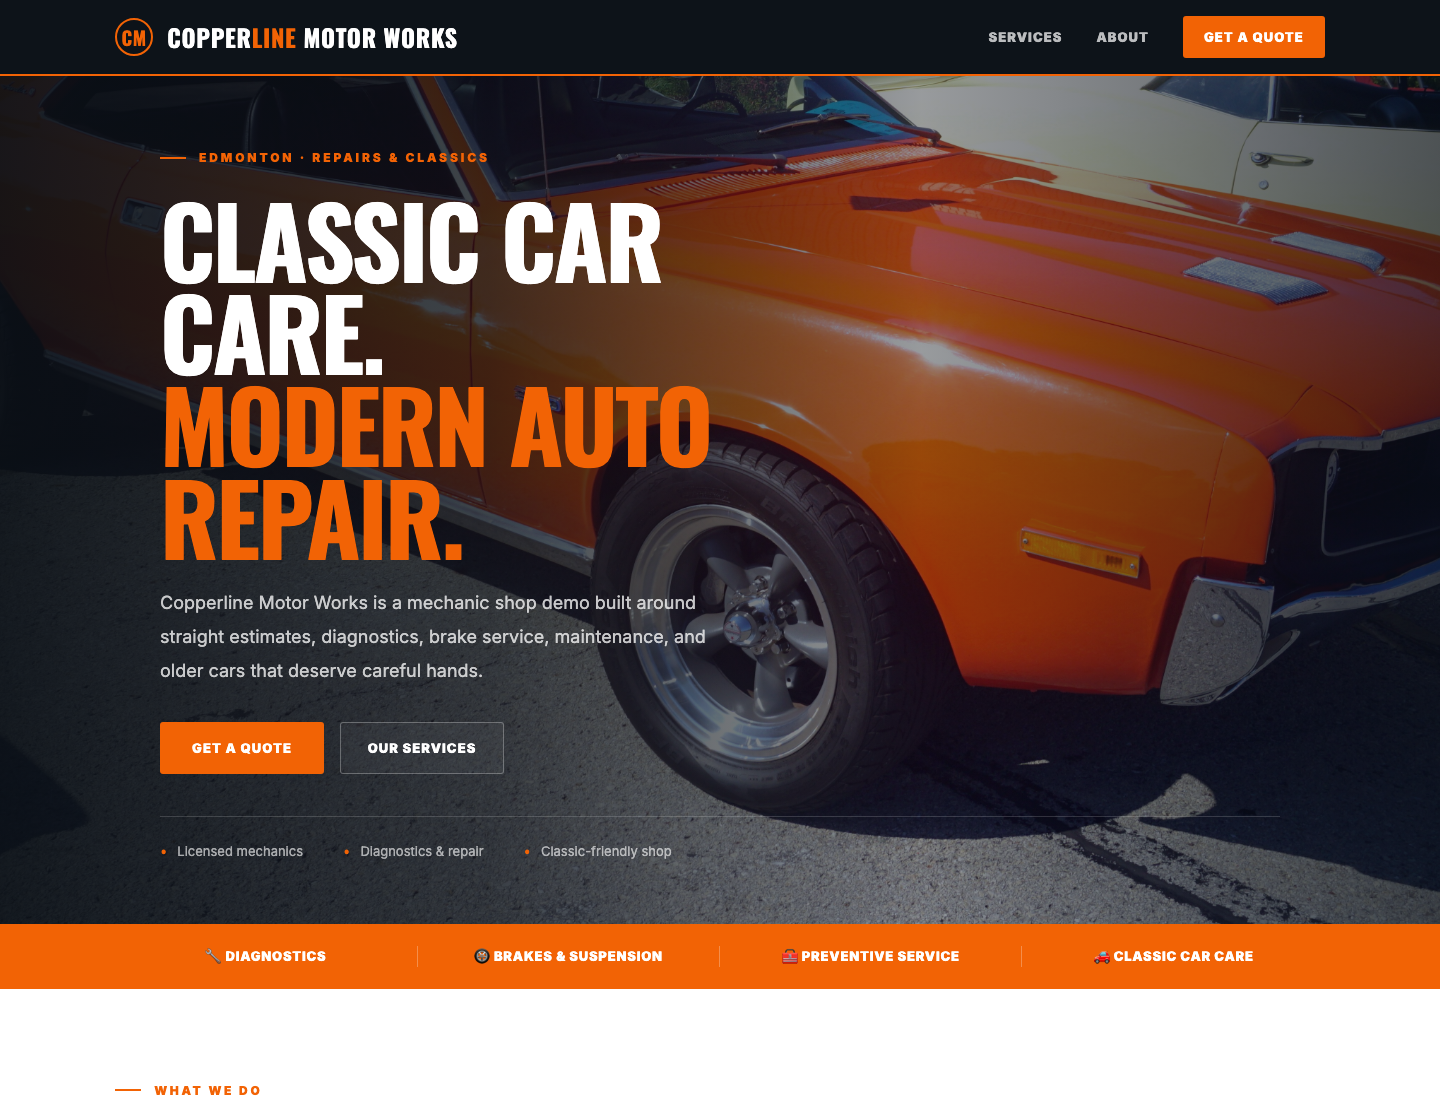
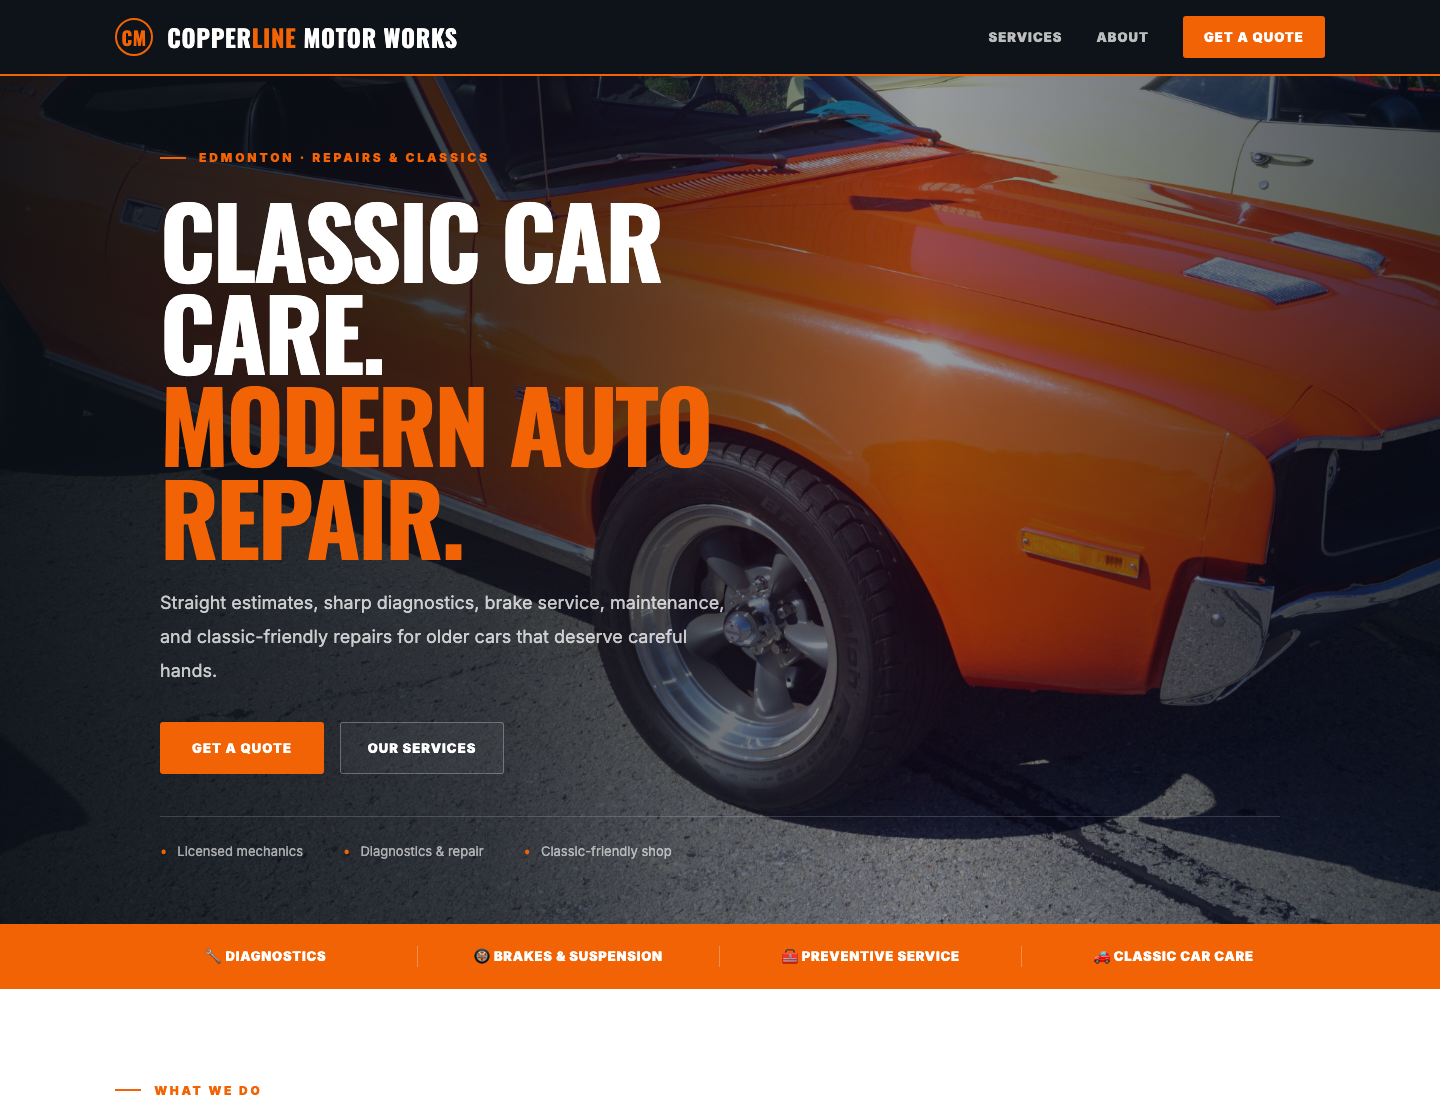
Polish Copperline screenshot quality

Changed region(s): [[0.125, 0.5255, 0.5, 0.6182]]

diff --git a/demo-starter-site.html b/demo-starter-site.html
@@ -8,7 +8,7 @@
 <link rel="preconnect" href="https://fonts.gstatic.com" crossorigin>
 <link href="https://fonts.googleapis.com/css2?family=Inter:wght@400;500;600;700;800;900&family=Oswald:wght@600;700&display=swap" rel="stylesheet">
 <style>
-:root{--dark:#0b1116;--nav:#0d1319;--orange:#f26305;--white:#fff;--paper:#f4f6f9;--ink:#101820;--muted:#5f6e83;--line:#dbe2ea}*{box-sizing:border-box;margin:0;padding:0}body{font-family:Inter,system-ui,-apple-system,sans-serif;background:#fff;color:var(--ink);line-height:1.6}.page{overflow:hidden}.nav{height:76px;background:var(--nav);border-bottom:2px solid var(--orange);display:flex;align-items:center;justify-content:space-between;padding:0 max(26px,8vw);position:relative;z-index:5}.brand{display:flex;align-items:center;gap:14px;color:#fff;text-decoration:none;font-weight:900;letter-spacing:.04em}.mark{width:38px;height:38px;border-radius:50%;border:2px solid var(--orange);display:grid;place-items:center;color:var(--orange);font-family:Oswald,sans-serif;font-size:19px}.brand strong{font-family:Oswald,sans-serif;font-size:24px;line-height:1;letter-spacing:.03em}.brand span{color:var(--orange)}.links{display:flex;align-items:center;gap:34px}.links a{color:rgba(255,255,255,.72);text-decoration:none;font-weight:900;font-size:13px;letter-spacing:.08em}.quote{height:42px;border-radius:3px;background:var(--orange);color:#fff!important;display:flex;align-items:center;padding:0 21px}.hero{min-height:690px;position:relative;background:#111;display:flex;align-items:center}.hero-bg{position:absolute;inset:0}.hero-bg img{width:100%;height:100%;object-fit:cover;object-position:center;display:block}.hero-bg::after{content:'';position:absolute;inset:0;background:linear-gradient(90deg,rgba(10,16,22,.94) 0%,rgba(10,16,22,.78) 34%,rgba(10,16,22,.42) 64%,rgba(10,16,22,.72) 100%)}.hero-inner{position:relative;z-index:1;width:min(1120px,calc(100% - 44px));margin:auto;padding:72px 0 62px}.eyebrow{display:flex;align-items:center;gap:13px;color:var(--orange);font-size:12px;font-weight:900;letter-spacing:.24em;text-transform:uppercase;margin-bottom:26px}.eyebrow::before{content:'';width:26px;height:2px;background:var(--orange)}h1{font-family:Oswald,Impact,sans-serif;font-weight:700;text-transform:uppercase;font-size:clamp(58px,8vw,98px);line-height:.94;letter-spacing:-.025em;color:#fff;max-width:730px}.accent{display:block;color:var(--orange)}.lead{max-width:570px;color:rgba(255,255,255,.76);font-size:18px;line-height:1.9;margin-top:24px}.actions{display:flex;gap:16px;margin-top:34px}.btn{height:52px;min-width:164px;border-radius:3px;display:inline-flex;align-items:center;justify-content:center;text-decoration:none;font-weight:900;font-size:13px;letter-spacing:.08em}.btn.primary{background:var(--orange);color:#fff}.btn.secondary{background:rgba(255,255,255,.04);color:#fff;border:1px solid rgba(255,255,255,.28)}.trust-line{margin-top:42px;padding-top:24px;border-top:1px solid rgba(255,255,255,.16);display:flex;gap:40px;color:rgba(255,255,255,.62);font-size:13px}.trust-line span::before{content:'•';color:var(--orange);margin-right:10px}.orange-strip{background:var(--orange);color:#fff;display:grid;grid-template-columns:repeat(4,1fr);gap:0;justify-items:center;padding:22px max(18px,8vw);font-weight:900;font-size:13px;letter-spacing:.06em;text-transform:uppercase}.orange-strip div{width:100%;text-align:center;border-right:1px solid rgba(255,255,255,.28)}.orange-strip div:last-child{border-right:0}.section{padding:92px max(24px,8vw);background:#fff}.section-head{max-width:690px;margin-bottom:44px}.kicker{display:flex;align-items:center;gap:13px;color:var(--orange);font-size:12px;font-weight:900;letter-spacing:.22em;text-transform:uppercase;margin-bottom:18px}.kicker::before{content:'';width:26px;height:2px;background:var(--orange)}h2{font-family:Oswald,Impact,sans-serif;font-size:52px;line-height:1;text-transform:uppercase;letter-spacing:-.02em;color:#111923}.section-head p{margin-top:14px;color:#61728a;font-size:17px}.cards{display:grid;grid-template-columns:repeat(3,1fr);gap:24px}.card{min-height:226px;background:#fff;border:1px solid var(--line);border-top:4px solid var(--orange);padding:30px;box-shadow:0 16px 40px rgba(14,31,48,.04)}.icon{font-size:31px;margin-bottom:18px}.card h3{font-family:Oswald,sans-serif;text-transform:uppercase;font-size:21px;letter-spacing:-.01em;margin-bottom:8px}.card p{color:#61728a;font-size:15px}.about{display:grid;grid-template-columns:1fr 1fr;background:#151d29;color:#fff}.about-photo{min-height:520px;position:relative;overflow:hidden}.about-photo img{width:100%;height:100%;object-fit:cover;object-position:center;filter:saturate(1.04) contrast(1.05)}.about-photo::after{content:'';position:absolute;inset:0;background:rgba(9,15,22,.25)}.about-copy{padding:82px max(24px,8vw) 78px 68px;display:flex;flex-direction:column;justify-content:center}.about-copy h2{color:#fff}.about-copy p{color:rgba(255,255,255,.68);max-width:560px;margin-top:22px;line-height:1.85}.bullets{margin-top:26px;color:rgba(255,255,255,.72);display:grid;gap:10px;font-size:15px}.bullets div::before{content:'•';color:var(--orange);margin-right:12px}.request{background:#0b1116;color:#fff;padding:90px max(24px,8vw);border-bottom:2px solid var(--orange)}.request h2{color:#fff}.request-grid{display:grid;grid-template-columns:.85fr 1.15fr;gap:72px;max-width:1120px;margin:auto}.contact-list{display:grid;gap:22px;margin-top:32px}.contact{display:flex;gap:16px;align-items:center}.contact .box{width:42px;height:42px;border:1px solid rgba(242,99,5,.55);background:rgba(242,99,5,.08);display:grid;place-items:center;border-radius:3px}.contact small{display:block;color:var(--orange);font-weight:900;letter-spacing:.12em;font-size:11px}.contact span{color:rgba(255,255,255,.72)}.form{display:grid;gap:15px}.row{display:grid;grid-template-columns:1fr 1fr;gap:15px}.field label{display:block;color:rgba(255,255,255,.45);font-size:11px;letter-spacing:.16em;margin-bottom:7px}.field input,.field textarea,.field select{width:100%;background:#171e25;border:1px solid #343d47;color:#fff;height:52px;padding:0 16px;font:inherit}.field textarea{height:126px;padding-top:14px}.submit{height:56px;border:0;background:var(--orange);color:#fff;font-weight:900;letter-spacing:.08em}.footer{height:78px;background:#080d12;color:rgba(255,255,255,.35);display:flex;align-items:center;justify-content:space-between;padding:0 max(24px,8vw);font-size:13px}.footer strong{font-family:Oswald,sans-serif;color:#fff;font-size:19px}.footer strong span{color:var(--orange)}.credit{font-size:10px;color:rgba(255,255,255,.25)}@media(max-width:800px){.nav{height:68px;padding:0 18px}.links a:not(.quote){display:none}.quote{height:38px;padding:0 14px}.brand strong{font-size:19px}.hero{min-height:650px}.hero-inner{padding-top:46px}.lead{font-size:16px;line-height:1.7}.actions{display:grid;grid-template-columns:1fr;max-width:240px}.trust-line{display:grid;gap:10px}.orange-strip{grid-template-columns:1fr 1fr;gap:18px}.orange-strip div{border:0}.cards{grid-template-columns:1fr}.about{grid-template-columns:1fr}.about-photo{min-height:300px}.about-copy{padding:56px 24px}.request-grid{grid-template-columns:1fr;gap:38px}.row{grid-template-columns:1fr}.footer{display:grid;gap:4px;height:auto;padding-top:24px;padding-bottom:24px}h2{font-size:40px}h1{font-size:52px}.hero-bg img{object-position:58% center}}
+:root{--dark:#0b1116;--nav:#0d1319;--orange:#f26305;--white:#fff;--paper:#f4f6f9;--ink:#101820;--muted:#5f6e83;--line:#dbe2ea}*{box-sizing:border-box;margin:0;padding:0}body{font-family:Inter,system-ui,-apple-system,sans-serif;background:#fff;color:var(--ink);line-height:1.6}.page{overflow:hidden}.nav{height:76px;background:var(--nav);border-bottom:2px solid var(--orange);display:flex;align-items:center;justify-content:space-between;padding:0 max(26px,8vw);position:relative;z-index:5}.brand{display:flex;align-items:center;gap:14px;color:#fff;text-decoration:none;font-weight:900;letter-spacing:.04em}.mark{width:38px;height:38px;border-radius:50%;border:2px solid var(--orange);display:grid;place-items:center;color:var(--orange);font-family:Oswald,sans-serif;font-size:19px}.brand strong{font-family:Oswald,sans-serif;font-size:24px;line-height:1;letter-spacing:.03em}.brand span{color:var(--orange)}.links{display:flex;align-items:center;gap:34px}.links a{color:rgba(255,255,255,.72);text-decoration:none;font-weight:900;font-size:13px;letter-spacing:.08em}.quote{height:42px;border-radius:3px;background:var(--orange);color:#fff!important;display:flex;align-items:center;padding:0 21px}.hero{min-height:690px;position:relative;background:#111;display:flex;align-items:center}.hero-bg{position:absolute;inset:0}.hero-bg img{width:100%;height:100%;object-fit:cover;object-position:center;display:block}.hero-bg::after{content:'';position:absolute;inset:0;background:linear-gradient(90deg,rgba(10,16,22,.94) 0%,rgba(10,16,22,.78) 34%,rgba(10,16,22,.42) 64%,rgba(10,16,22,.72) 100%)}.hero-inner{position:relative;z-index:1;width:min(1120px,calc(100% - 44px));margin:auto;padding:72px 0 62px}.eyebrow{display:flex;align-items:center;gap:13px;color:var(--orange);font-size:12px;font-weight:900;letter-spacing:.24em;text-transform:uppercase;margin-bottom:26px}.eyebrow::before{content:'';width:26px;height:2px;background:var(--orange)}h1{font-family:Oswald,Impact,sans-serif;font-weight:700;text-transform:uppercase;font-size:clamp(58px,8vw,98px);line-height:.94;letter-spacing:-.025em;color:#fff;max-width:730px}.accent{display:block;color:var(--orange)}.lead{max-width:570px;color:rgba(255,255,255,.76);font-size:18px;line-height:1.9;margin-top:24px}.actions{display:flex;gap:16px;margin-top:34px}.btn{height:52px;min-width:164px;border-radius:3px;display:inline-flex;align-items:center;justify-content:center;text-decoration:none;font-weight:900;font-size:13px;letter-spacing:.08em}.btn.primary{background:var(--orange);color:#fff}.btn.secondary{background:rgba(255,255,255,.04);color:#fff;border:1px solid rgba(255,255,255,.28)}.trust-line{margin-top:42px;padding-top:24px;border-top:1px solid rgba(255,255,255,.16);display:flex;gap:40px;color:rgba(255,255,255,.62);font-size:13px}.trust-line span::before{content:'•';color:var(--orange);margin-right:10px}.orange-strip{background:var(--orange);color:#fff;display:grid;grid-template-columns:repeat(4,1fr);gap:0;justify-items:center;padding:22px max(18px,8vw);font-weight:900;font-size:13px;letter-spacing:.06em;text-transform:uppercase}.orange-strip div{width:100%;text-align:center;border-right:1px solid rgba(255,255,255,.28)}.orange-strip div:last-child{border-right:0}.section{padding:92px max(24px,8vw);background:#fff}.section-head{max-width:690px;margin-bottom:44px}.kicker{display:flex;align-items:center;gap:13px;color:var(--orange);font-size:12px;font-weight:900;letter-spacing:.22em;text-transform:uppercase;margin-bottom:18px}.kicker::before{content:'';width:26px;height:2px;background:var(--orange)}h2{font-family:Oswald,Impact,sans-serif;font-size:52px;line-height:1;text-transform:uppercase;letter-spacing:-.02em;color:#111923}.section-head p{margin-top:14px;color:#61728a;font-size:17px}.cards{display:grid;grid-template-columns:repeat(3,1fr);gap:24px}.card{min-height:226px;background:#fff;border:1px solid var(--line);border-top:4px solid var(--orange);padding:30px;box-shadow:0 16px 40px rgba(14,31,48,.04)}.icon{font-size:31px;margin-bottom:18px}.card h3{font-family:Oswald,sans-serif;text-transform:uppercase;font-size:21px;letter-spacing:-.01em;margin-bottom:8px}.card p{color:#61728a;font-size:15px}.about{display:grid;grid-template-columns:1fr 1fr;background:#151d29;color:#fff}.about-photo{min-height:520px;position:relative;overflow:hidden}.about-photo img{width:100%;height:100%;object-fit:cover;object-position:center;filter:saturate(1.04) contrast(1.05)}.about-photo::after{content:'';position:absolute;inset:0;background:rgba(9,15,22,.25)}.about-copy{padding:82px max(24px,8vw) 78px 68px;display:flex;flex-direction:column;justify-content:center}.about-copy h2{color:#fff}.about-copy p{color:rgba(255,255,255,.68);max-width:560px;margin-top:22px;line-height:1.85}.bullets{margin-top:26px;color:rgba(255,255,255,.72);display:grid;gap:10px;font-size:15px}.bullets div::before{content:'•';color:var(--orange);margin-right:12px}.request{background:#0b1116;color:#fff;padding:90px max(24px,8vw);border-bottom:2px solid var(--orange)}.request h2{color:#fff}.request-grid{display:grid;grid-template-columns:.85fr 1.15fr;gap:72px;max-width:1120px;margin:auto}.contact-list{display:grid;gap:22px;margin-top:32px}.contact{display:flex;gap:16px;align-items:center}.contact .box{width:42px;height:42px;border:1px solid rgba(242,99,5,.55);background:rgba(242,99,5,.08);display:grid;place-items:center;border-radius:3px}.contact small{display:block;color:var(--orange);font-weight:900;letter-spacing:.12em;font-size:11px}.contact span{color:rgba(255,255,255,.72)}.form{display:grid;gap:15px}.row{display:grid;grid-template-columns:1fr 1fr;gap:15px}.field label{display:block;color:rgba(255,255,255,.45);font-size:11px;letter-spacing:.16em;margin-bottom:7px}.field input,.field textarea,.field select{width:100%;background:#171e25;border:1px solid #343d47;color:#fff;height:52px;padding:0 16px;font:inherit}.field textarea{height:126px;padding-top:14px}.submit{height:56px;border:0;background:var(--orange);color:#fff;font-weight:900;letter-spacing:.08em}.footer{height:78px;background:#080d12;color:rgba(255,255,255,.35);display:flex;align-items:center;justify-content:space-between;padding:0 max(24px,8vw);font-size:13px}.footer strong{font-family:Oswald,sans-serif;color:#fff;font-size:19px}.footer strong span{color:var(--orange)}.credit{font-size:10px;color:rgba(255,255,255,.25)}@media(max-width:800px){body{overflow-x:hidden}.nav{height:68px;padding:0 18px}.links{display:none}.brand strong{font-size:18px;letter-spacing:.01em}.mark{width:34px;height:34px;font-size:17px}.hero{min-height:710px}.hero-inner{width:calc(100% - 36px);padding-top:42px}.eyebrow{font-size:10px;letter-spacing:.2em;margin-bottom:18px}.lead{font-size:15px;line-height:1.65;max-width:330px}.actions{display:grid;grid-template-columns:1fr;max-width:240px}.trust-line{display:grid;gap:10px}.orange-strip{grid-template-columns:1fr;gap:0;padding:16px 18px;font-size:12px}.orange-strip div{border-right:0;border-bottom:1px solid rgba(255,255,255,.25);padding:10px 0}.orange-strip div:last-child{border-bottom:0}.cards{grid-template-columns:1fr}.about{grid-template-columns:1fr}.about-photo{min-height:300px}.about-copy{padding:56px 24px}.request-grid{grid-template-columns:1fr;gap:38px}.row{grid-template-columns:1fr}.footer{display:grid;gap:4px;height:auto;padding-top:24px;padding-bottom:24px}h2{font-size:40px}h1{font-size:43px;max-width:330px;line-height:.96;letter-spacing:-.015em}.hero-bg img{object-position:62% center}}
 </style>
 </head>
 <body>
@@ -19,7 +19,7 @@
     <div class="hero-inner">
       <div class="eyebrow">Edmonton · Repairs & classics</div>
       <h1>Classic car care.<span class="accent">Modern auto repair.</span></h1>
-      <p class="lead">Copperline Motor Works is a mechanic shop demo built around straight estimates, diagnostics, brake service, maintenance, and older cars that deserve careful hands.</p>
+      <p class="lead">Straight estimates, sharp diagnostics, brake service, maintenance, and classic-friendly repairs for older cars that deserve careful hands.</p>
       <div class="actions"><a class="btn primary" href="#request">GET A QUOTE</a><a class="btn secondary" href="#services">OUR SERVICES</a></div>
       <div class="trust-line"><span>Licensed mechanics</span><span>Diagnostics & repair</span><span>Classic-friendly shop</span></div>
     </div>
